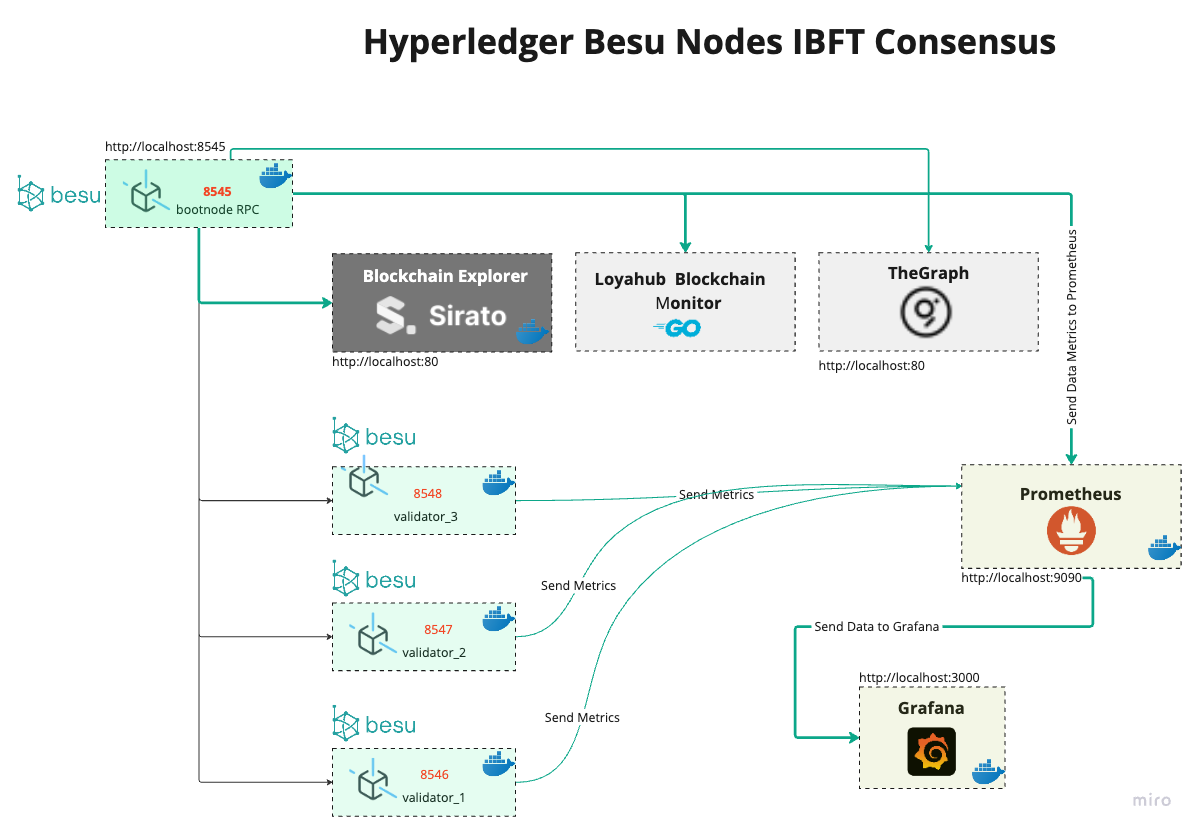
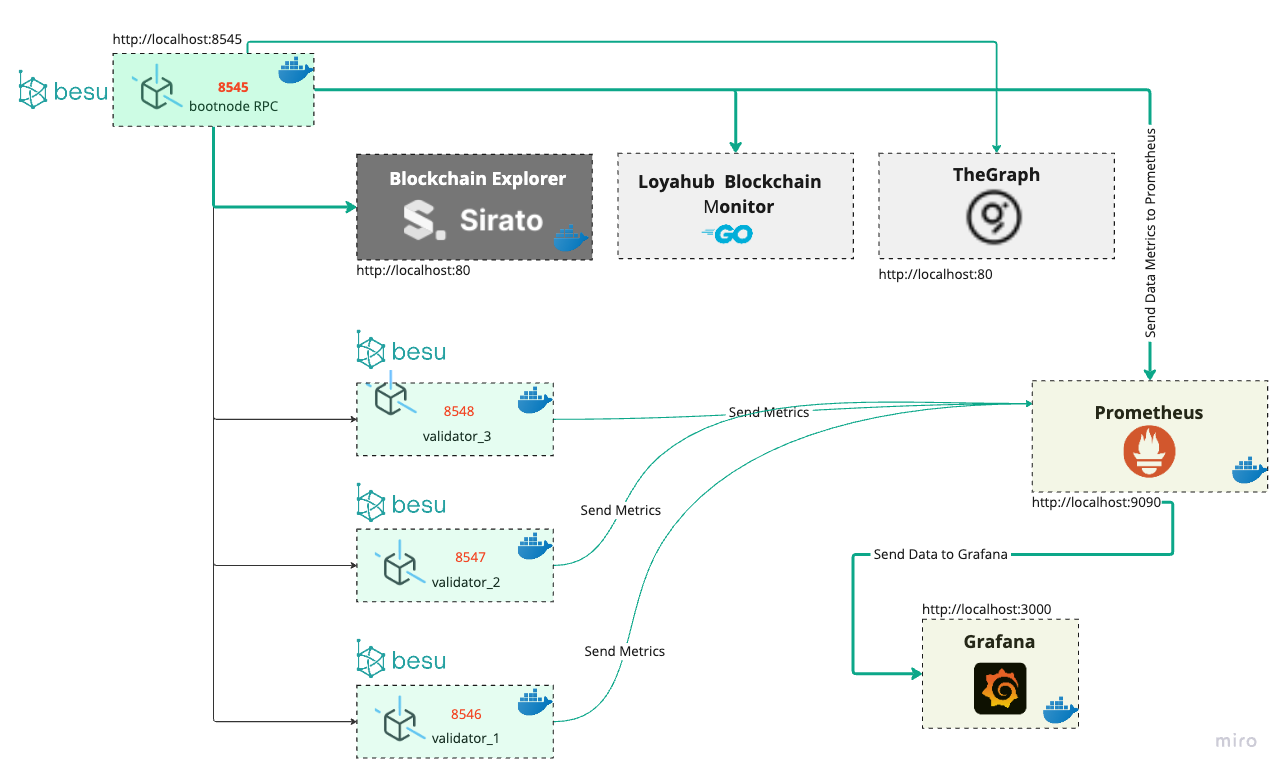
fix: Hyperledger besu image and doc

diff --git a/packages/loyahub-doc/docs/api/overview.md b/packages/loyahub-doc/docs/api/overview.md
@@ -13,6 +13,10 @@ This API provides integration for various applications, such as:
 - **Web app:** Allows customers to track their points balance and NFTs.
 - **Wallet app:** Integration for managing digital assets and secure authentication.
 
+### Infrastruture 
+![API Infrastructure](https://github.com/renancorreadev/customer-rewards-blockchain/blob/develop/docs/images/API_Infra.png?raw=true)
+
+
 The API follows the **Hexagonal Architecture** model, promoting higher modularity through the use of `Ports` and `Adapters`. This structure simplifies maintenance and future expansions, ensuring flexibility and decoupling of essential modules.
 
 

diff --git a/packages/loyahub-doc/docs/infrastructure/HyperledgerBesu/intro.md b/packages/loyahub-doc/docs/infrastructure/HyperledgerBesu/intro.md
@@ -6,6 +6,10 @@ sidebar_position: 1
 
 Hyperledger Besu is an open-source Ethereum client designed for enterprise use, offering a high level of flexibility to support both public and private networks. In this project, it manages the private blockchain network using the IBFT consensus protocol.
 
+## General Architecture
+
+![General Architecture](https://github.com/renancorreadev/customer-rewards-blockchain/blob/develop/docs/images/Besu.png?raw=true)
+
 ## Features of Hyperledger Besu
 
 - **Private Blockchain Network**: Ensures controlled access.
